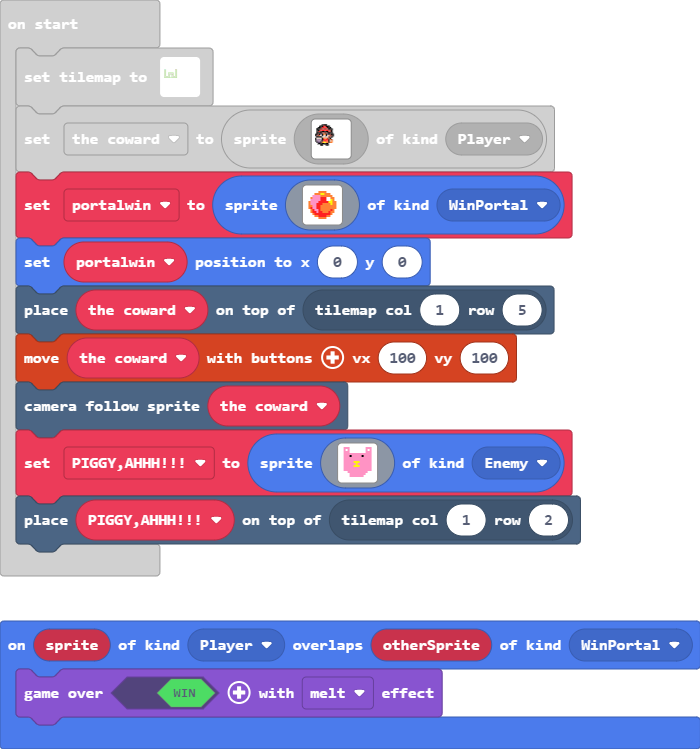
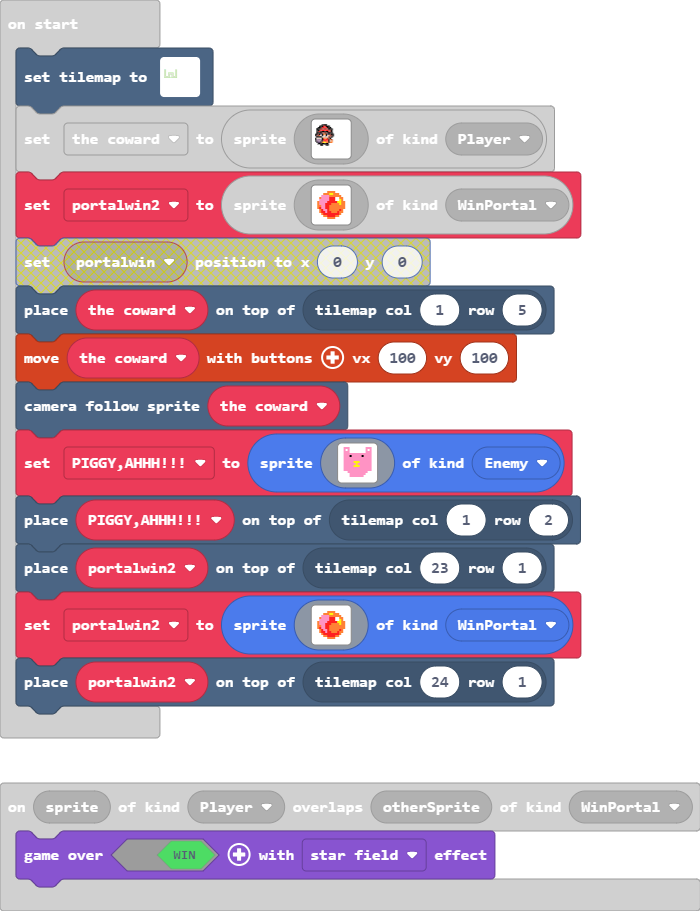
Update main.blocks, main.ts

diff --git a/main.ts b/main.ts
@@ -2,12 +2,12 @@ namespace SpriteKind {
     export const WinPortal = SpriteKind.create()
 }
 sprites.onOverlap(SpriteKind.Player, SpriteKind.WinPortal, function (sprite, otherSprite) {
-    game.over(true, effects.melt)
+    game.over(true, effects.starField)
 })
 sprites.onOverlap(SpriteKind.Player, SpriteKind.Enemy, function (sprite, otherSprite) {
     game.over(false, effects.confetti)
 })
[2 lines of base64/hex data omitted]
     . 2 2 . . . . . . . . . . . . . . . . . . . . 2 2 . . . . . . . . . . . . . . . . . . . . . . . . . . . . . . . . . . . . . . . 
     2 . . 2 . . . . . . . . . . . . . . . . . . 2 . . 2 . . . . . . . . . . . . . . . . . . . . . . . . . . . . . . . . . . . . . . 
     2 . . 2 . . . . . . . . . . . . . . . . . . 2 . . 2 . . . . . . . . . . . . . . . . . . . . . . . . . . . . . . . . . . . . . . 
@@ -40,7 +40,7 @@ tiles.setTilemap(tiles.createTilemap(hex`400020000000000000000000000000000000000
     . . . . . . . . . . . . . . . . . . . . . . . . . . . . . . . . . . . . . . . . . . . . . . . . . . . . . . . . . . . . . . . . 
     . . . . . . . . . . . . . . . . . . . . . . . . . . . . . . . . . . . . . . . . . . . . . . . . . . . . . . . . . . . . . . . . 
     . . . . . . . . . . . . . . . . . . . . . . . . . . . . . . . . . . . . . . . . . . . . . . . . . . . . . . . . . . . . . . . . 
-    `, [myTiles.transparency16,sprites.castle.tilePath5,sprites.castle.tilePath6,sprites.castle.tilePath4,sprites.castle.tilePath2,sprites.castle.tilePath8,sprites.castle.tilePath7,sprites.castle.tilePath9,sprites.castle.tilePath1,sprites.castle.tilePath3,sprites.castle.tileGrass1,sprites.dungeon.collectibleInsignia,sprites.dungeon.chestClosed,sprites.dungeon.collectibleRedCrystal,sprites.castle.tileGrass2], TileScale.Sixteen))
+    `, [myTiles.transparency16,sprites.castle.tilePath5,sprites.castle.tilePath6,sprites.castle.tilePath4,sprites.castle.tilePath2,sprites.castle.tilePath8,sprites.castle.tilePath7,sprites.castle.tilePath9,sprites.castle.tilePath1,sprites.castle.tilePath3,sprites.castle.tileGrass1,sprites.dungeon.collectibleInsignia,sprites.castle.tileGrass2], TileScale.Sixteen))
 let the_coward = sprites.create(img`
     . . . . . . . . . . . . . . . . . . . . . . . . 
     . . . . . f f f f . . . . . . . . . . . . . . . 
@@ -67,7 +67,7 @@ let the_coward = sprites.create(img`
     . . . . . . . . . . . . . . . . . . . . . . . . 
     . . . . . . . . . . . . . . . . . . . . . . . . 
     `, SpriteKind.Player)
-let portalwin = sprites.create(img`
+let portalwin2 = sprites.create(img`
     . . . . . . . . . . . . . . . . 
     . . . . . . 4 4 4 4 . . . . . . 
     . . . . 4 4 4 5 5 4 4 4 . . . . 
@@ -85,7 +85,26 @@ let portalwin = sprites.create(img`
     . . . . . . 4 4 4 4 . . . . . . 
     . . . . . . . . . . . . . . . . 
     `, SpriteKind.WinPortal)
-portalwin.setPosition(0, 0)
+tiles.placeOnTile(portalwin2, tiles.getTileLocation(23, 1))
+portalwin2 = sprites.create(img`
+    . . . . . . . . . . . . . . . . 
+    . . . . . . 4 4 4 4 . . . . . . 
+    . . . . 4 4 4 5 5 4 4 4 . . . . 
+    . . . 3 3 3 3 4 4 4 4 4 4 . . . 
+    . . 4 3 3 3 3 2 2 2 1 1 4 4 . . 
+    . . 3 3 3 3 3 2 2 2 1 1 5 4 . . 
+    . 4 3 3 3 3 2 2 2 2 2 5 5 4 4 . 
+    . 4 3 3 3 2 2 2 4 4 4 4 5 4 4 . 
+    . 4 4 3 3 2 2 4 4 4 4 4 4 4 4 . 
+    . 4 2 3 3 2 2 4 4 4 4 4 4 4 4 . 
+    . . 4 2 3 3 2 4 4 4 4 4 2 4 . . 
+    . . 4 2 2 3 2 2 4 4 4 2 4 4 . . 
+    . . . 4 2 2 2 2 2 2 2 2 4 . . . 
+    . . . . 4 4 2 2 2 2 4 4 . . . . 
+    . . . . . . 4 4 4 4 . . . . . . 
+    . . . . . . . . . . . . . . . . 
+    `, SpriteKind.WinPortal)
+tiles.placeOnTile(portalwin2, tiles.getTileLocation(24, 1))
 tiles.placeOnTile(the_coward, tiles.getTileLocation(1, 5))
 controller.moveSprite(the_coward, 100, 100)
 scene.cameraFollowSprite(the_coward)
